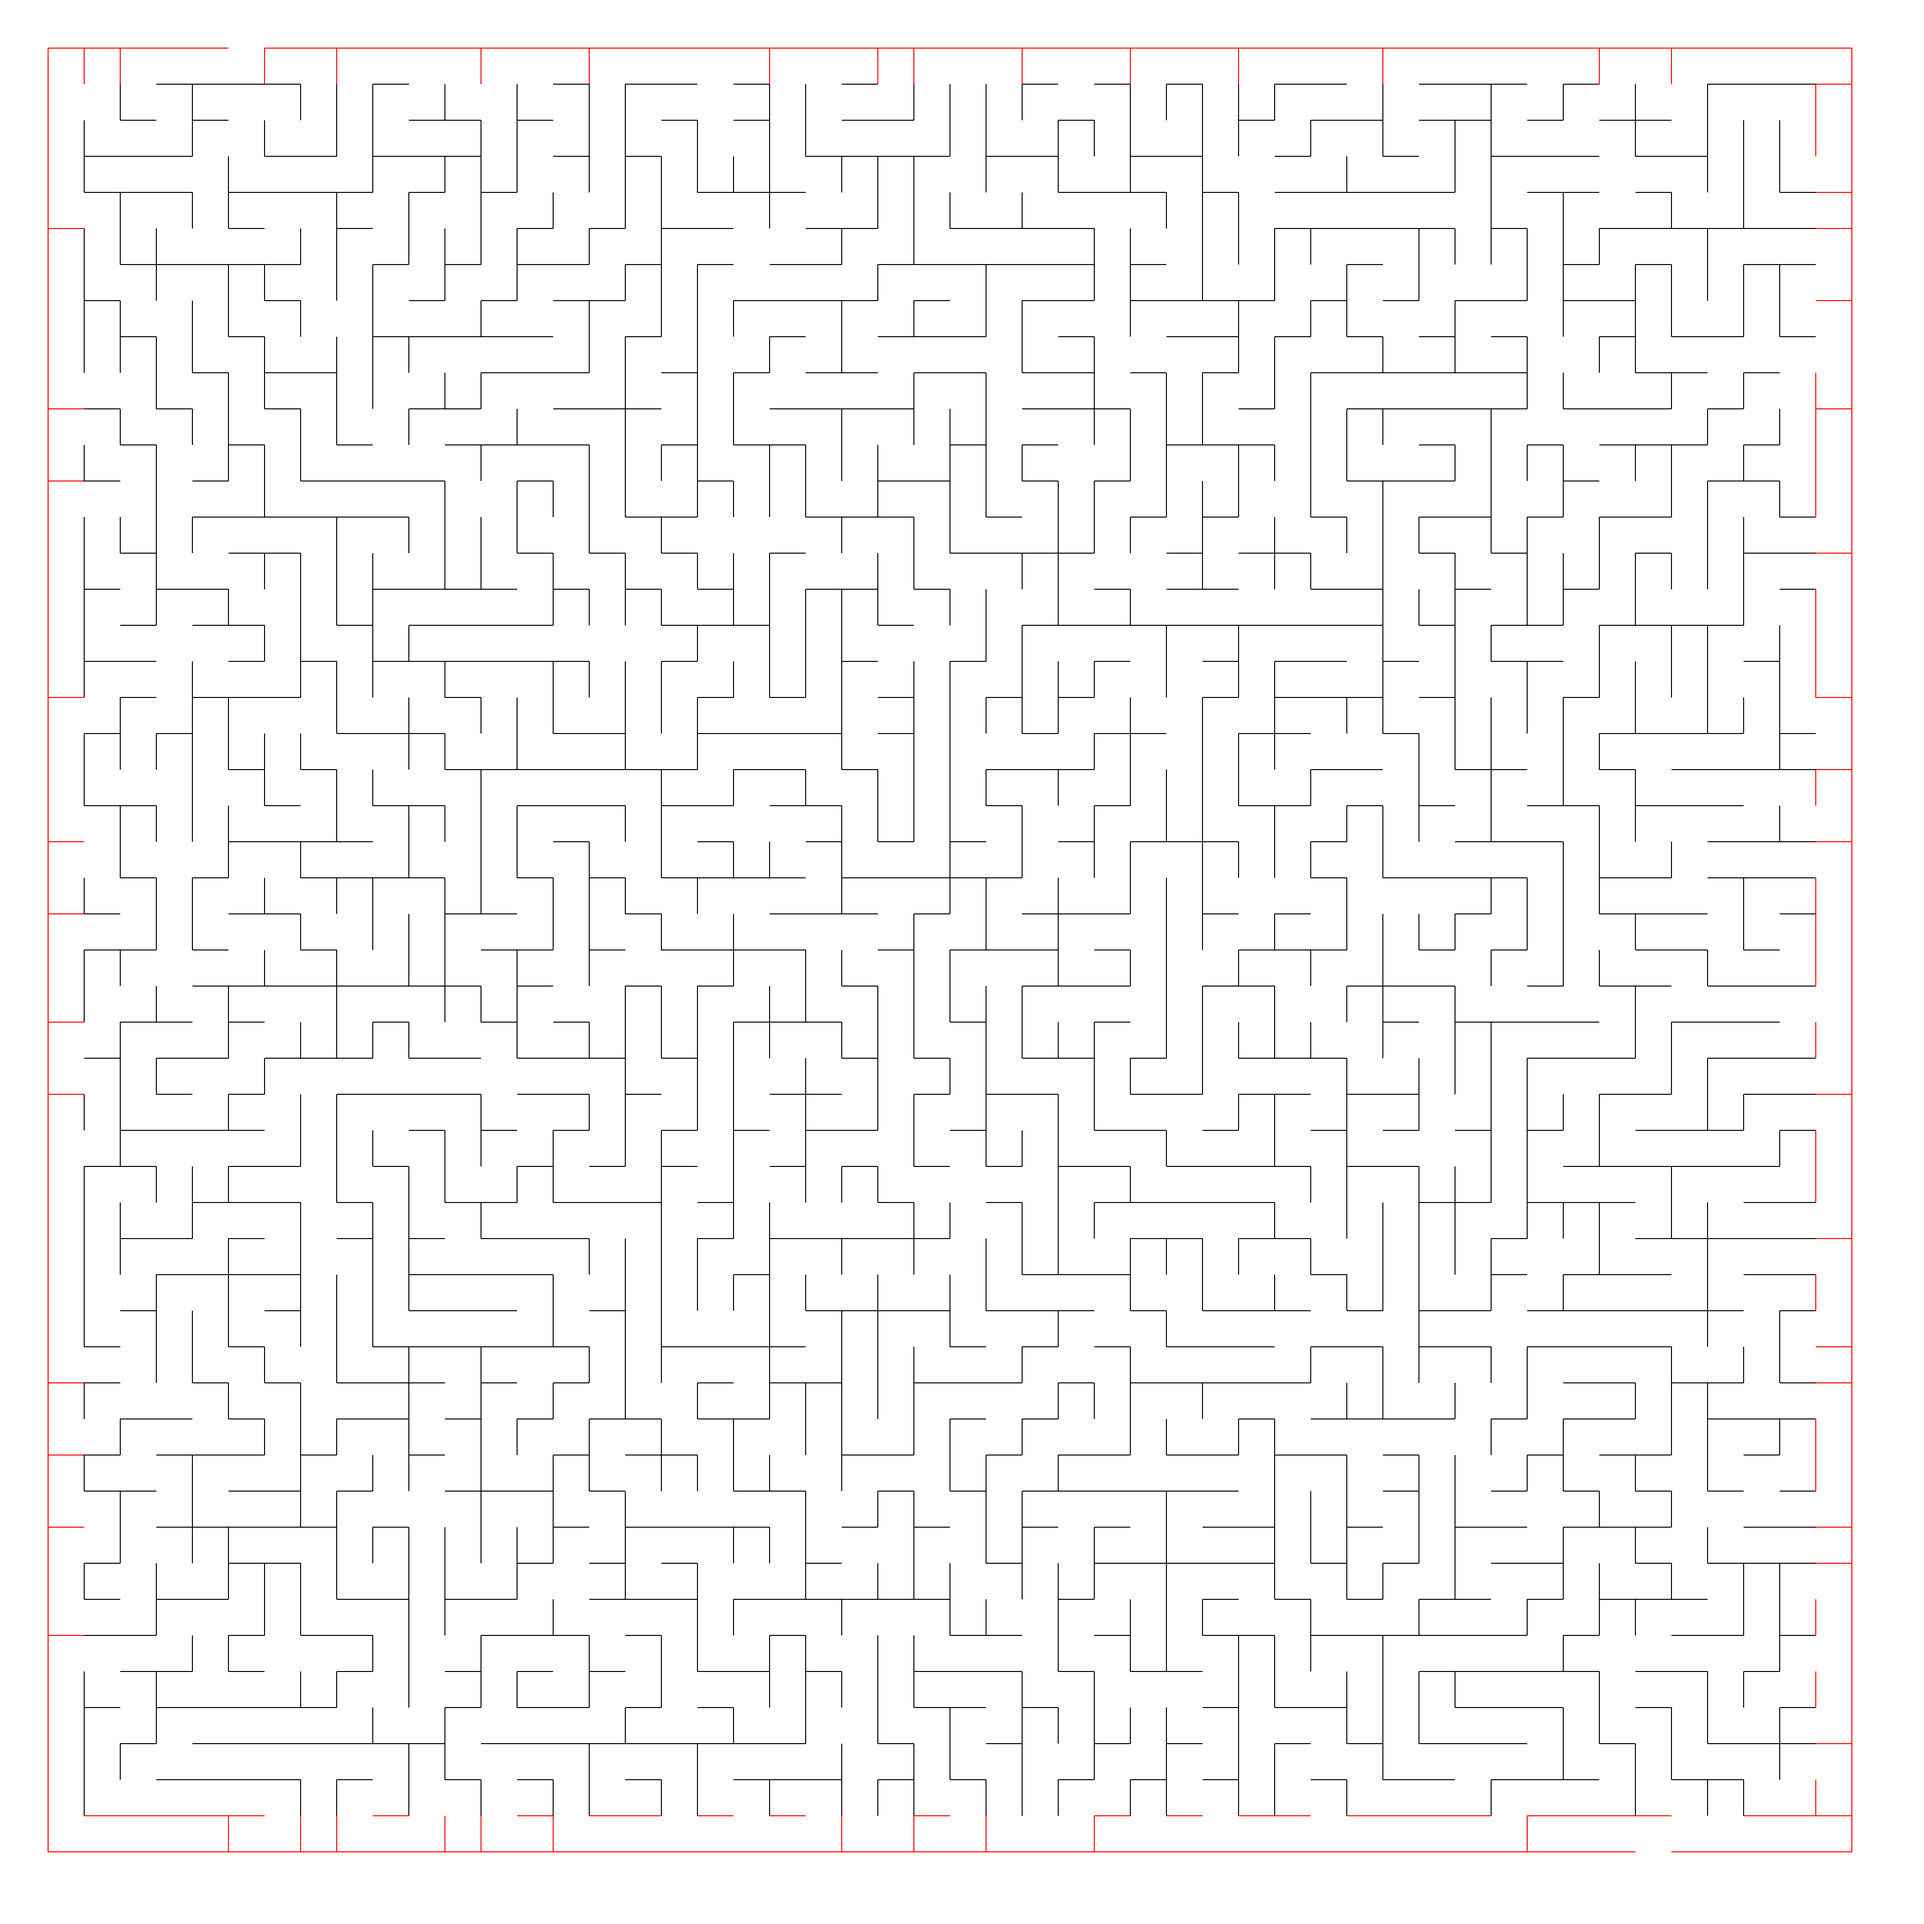
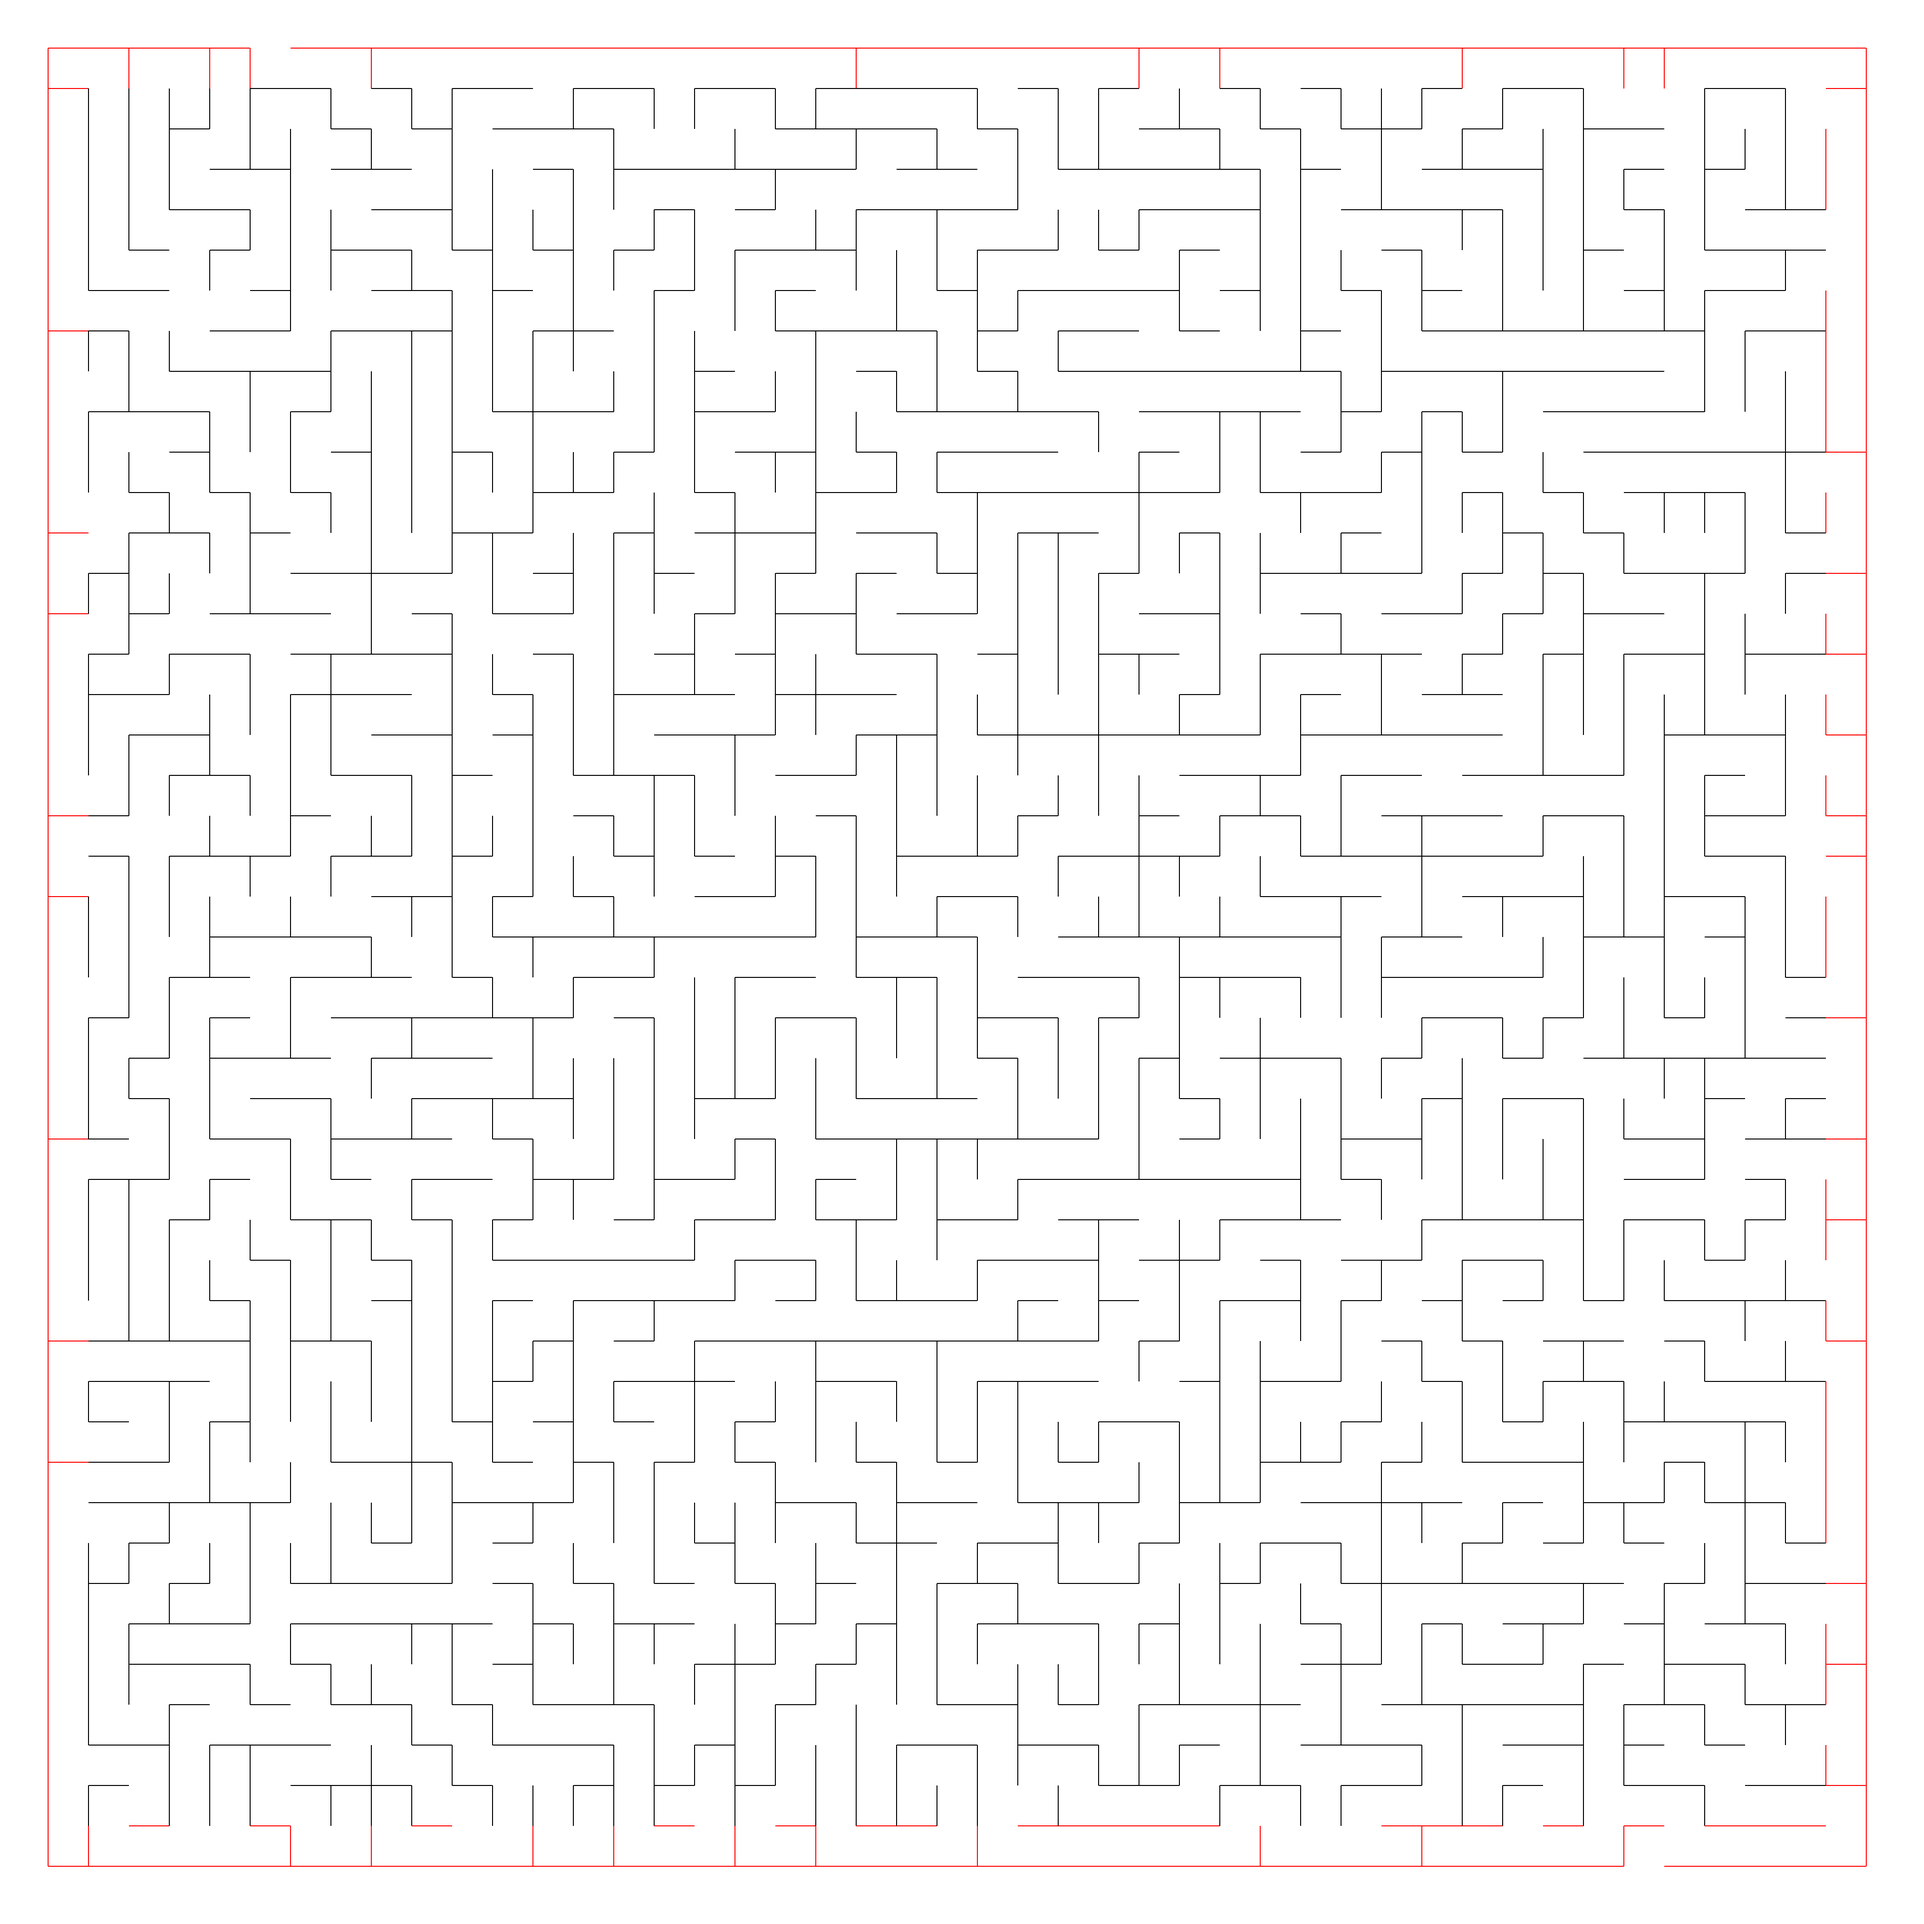
Created 45x45 maze.

diff --git a/src/png_boxes.cc b/src/png_boxes.cc
@@ -1187,7 +1187,7 @@ void draw_maze(cairo_t *cr, int width, int height){
 
     //medium (4000,4000)
     cairo_translate( cr, 100, 100 );
-    Grid grid( cr, 50, 50, 75, 10, 15 );
+    Grid grid( cr, 45, 45, 84, 10, 15 );
 
     //easy (1000,1000)
     //cairo_translate( cr, 50, 50 );
